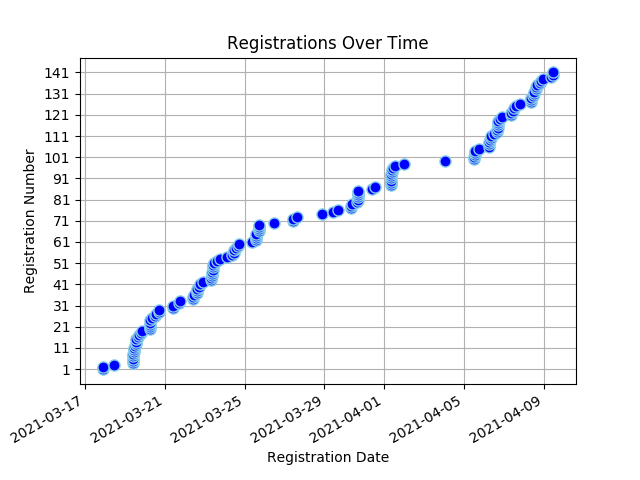
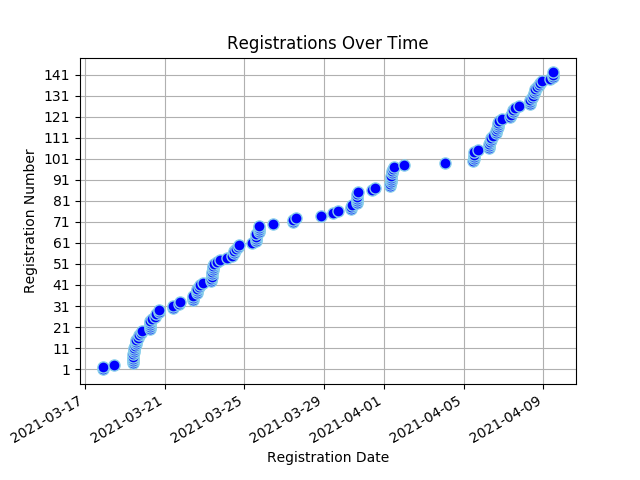
Registree stats backup on Fri 09 Apr 2021 12:12:28 SAST

diff --git a/content/registrees/_index.md b/content/registrees/_index.md
@@ -3,7 +3,7 @@ title: Registration Stats
 draft: false
 ---
 
-<ul><li><strong>Number of Registrees</strong>: 141</li>
+<ul><li><strong>Number of Registrees</strong>: 142</li>
 
 <li><strong>Number of Clubs</strong>: 53</li>
 
@@ -33,6 +33,6 @@ draft: false
         </tr>
     </thead>
     <tbody>
-<tr><td>Natalie Abrahams</td><td>Cape Town</td><td>410W</td></tr><tr><td>Linda Anderson</td><td>George</td><td>410W</td></tr><tr><td>Linda Baumgarten</td><td>Sea Point</td><td>410W</td></tr><tr><td>Ulrike Behrens</td><td>Windhoek</td><td>410W</td></tr><tr><td>Valencia Beukes-Williams</td><td>Kuilsriver</td><td>410W</td></tr><tr><td>JOSE BRAGA BORGES</td><td>Malmesbury</td><td>410W</td></tr><tr><td>Paul Brauteseth</td><td>Port Shepstone</td><td>410E</td></tr><tr><td>Nelle Buhrmann</td><td>Sea Point</td><td>410W</td></tr><tr><td>Herman Cadman</td><td>Stellenbosch</td><td>410W</td></tr><tr><td>Artemis Calomiris</td><td>Helderberg</td><td>410W</td></tr><tr><td>Linda Ann Cannone</td><td>Fish Hoek</td><td>410W</td></tr><tr><td>Sue Charles</td><td>Tokai</td><td>410W</td></tr><tr><td>Perry Chetty</td><td>East Coast</td><td>410E</td></tr><tr><td>Delaney Yeltsin Cloete</td><td>Eden</td><td>410W</td></tr><tr><td>Esme Cornelius</td><td>Kuilsriver</td><td>410W</td></tr><tr><td>Sharon Cottle</td><td>Groote Schuur</td><td>410W</td></tr><tr><td>Peter Daniel</td><td>Gordons Bay</td><td>410W</td></tr><tr><td>Norma Daniel</td><td>Gordons Bay</td><td>410W</td></tr><tr><td>Engela de Kock</td><td>Swellendam</td><td>410W</td></tr><tr><td>Francois de Kock</td><td>Swellendam</td><td>410W</td></tr><tr><td>ANDRE DE VILLIERS</td><td>Malgas</td><td>410W</td></tr><tr><td>Peggy Du Plooy</td><td>Krugersdorp</td><td>410E</td></tr><tr><td>Ivan Du Plooy</td><td>Krugersdorp</td><td>410E</td></tr><tr><td>Desiree du Toit</td><td>Ramsgate</td><td>410E</td></tr><tr><td>Natalie Etridge</td><td>Sedgefield</td><td>410W</td></tr><tr><td>AIDAN Ewers</td><td>Newlands</td><td>410W</td></tr><tr><td>Roger Fahrbach</td><td>Windhoek</td><td>410W</td></tr><tr><td>Beate Fahrbach</td><td>Windhoek</td><td>410W</td></tr><tr><td>Charles Flanagan</td><td>Tokai</td><td>410W</td></tr><tr><td>Jules Flanagan</td><td>Tokai</td><td>410W</td></tr><tr><td>Martin Froise</td><td>Letaba Tzaneen</td><td>410E</td></tr><tr><td>Valerie Graham</td><td>Nelspruit</td><td>410E</td></tr><tr><td>Mike Graham</td><td>Nelspruit</td><td>410E</td></tr><tr><td>Viv Grater</td><td>Sedgefield</td><td>410W</td></tr><tr><td>Mattheus Groves</td><td>Sedgefield</td><td>410W</td></tr><tr><td>Barbara Haywood</td><td>Eden</td><td>410W</td></tr><tr><td>Mike Heathcote</td><td>Port Shepstone</td><td>410E</td></tr><tr><td>Zarina Hendricks</td><td>Athlone</td><td>410W</td></tr><tr><td>Dorothy Hess</td><td>Kuilsriver</td><td>410W</td></tr><tr><td>Wendy Higgins</td><td>Wilro Park</td><td>410E</td></tr><tr><td>Jacqui Hocking</td><td>Midrand</td><td>410E</td></tr><tr><td>Cliff Hocking</td><td>Midrand</td><td>410E</td></tr><tr><td>Liz Houston</td><td>Table View</td><td>410W</td></tr><tr><td>John Houston</td><td>Table View</td><td>410W</td></tr><tr><td>Alna Jackson</td><td>Pretoria Jakaranda</td><td>410E</td></tr><tr><td>Dawid Jacobs</td><td>Durbanville</td><td>410W</td></tr><tr><td>Jean Jacobs</td><td>Mitchells Plain</td><td>410W</td></tr><tr><td>WOLSLEY Jacobson</td><td>Cape Town</td><td>410W</td></tr><tr><td>MALCOLM JOHNSTON</td><td>Standerton</td><td>410E</td></tr><tr><td>Grant Jonathan</td><td>Gordons Bay</td><td>410W</td></tr><tr><td>Jerome Kern</td><td>Groote Schuur</td><td>410W</td></tr><tr><td>Ian King</td><td>Alberton</td><td>410E</td></tr><tr><td>Muya Koloko</td><td>Durbanville</td><td>410W</td></tr><tr><td>Zwaai Kruger</td><td>Sedgefield</td><td>410W</td></tr><tr><td>Bevil Lakay</td><td>Mitchells Plain</td><td>410W</td></tr><tr><td>Paula Lang</td><td>Gordons Bay</td><td>410W</td></tr><tr><td>Jimmy Lang</td><td>Gordons Bay</td><td>410W</td></tr><tr><td>Heather Lee</td><td>Cape Of Good Hope</td><td>410W</td></tr><tr><td>Zarina Luck</td><td>Newcastle</td><td>410E</td></tr><tr><td>Sharon Mangwende</td><td>Cape Town</td><td>410W</td></tr><tr><td>Beaulieu Mare</td><td>Benoni Lakes</td><td>410E</td></tr><tr><td>Nick Maré</td><td>Benoni Lakes</td><td>410E</td></tr><tr><td>Jean Masson</td><td>Port Shepstone</td><td>410E</td></tr><tr><td>LANCE MAYTHAM</td><td>Swellendam</td><td>410W</td></tr><tr><td>ROSEMARIE MAYTHAM</td><td>Swellendam</td><td>410W</td></tr><tr><td>David Mccullough</td><td>Pretoria South</td><td>410E</td></tr><tr><td>Alec McKerrow</td><td>Port Alfred</td><td>410E</td></tr><tr><td>Stuart McPherson</td><td>Newlands</td><td>410E</td></tr><tr><td>Mark Meltzer</td><td>The Wilds</td><td>410E</td></tr><tr><td>Denis Meyer</td><td>Port Shepstone</td><td>410E</td></tr><tr><td>Roy Michas</td><td>Midrand</td><td>410E</td></tr><tr><td>Dawn Michas</td><td>Midrand</td><td>410E</td></tr><tr><td>BERNICE MILLS</td><td>Centurion</td><td>410E</td></tr><tr><td>Patrick Mills</td><td>Centurion</td><td>410E</td></tr><tr><td>Cherie Milosevich</td><td>Milnerton</td><td>410W</td></tr><tr><td>Alana Mitchell</td><td>Rustenburg</td><td>410E</td></tr><tr><td>Juan Mitchell</td><td>Rustenburg</td><td>410E</td></tr><tr><td>Virginia Mkhize</td><td>Cape Town</td><td>410W</td></tr><tr><td>Frauke E. Moeller</td><td>Windhoek</td><td>410W</td></tr><tr><td>Bernadine Moses</td><td>Cape Town</td><td>410W</td></tr><tr><td>Jacques Mostert</td><td>Merriman</td><td>410W</td></tr><tr><td>Pieter Myburg</td><td>Wellington</td><td>410W</td></tr><tr><td>Pieter Nel</td><td>George</td><td>410W</td></tr><tr><td>Tillie Nel</td><td>Eden</td><td>410W</td></tr><tr><td>Mike Newlands</td><td>Port Alfred</td><td>410E</td></tr><tr><td>Mike Newlands</td><td>Port Alfred</td><td>410E</td></tr><tr><td>Chris Ocker</td><td>Fish Hoek</td><td>410W</td></tr><tr><td>Jenny Ocker</td><td>Fish Hoek</td><td>410W</td></tr><tr><td>Debra Olivier</td><td>Sedgefield</td><td>410W</td></tr><tr><td>Sundru Pillay</td><td>Durbanville</td><td>410W</td></tr><tr><td>BRIAN PORTEOUS</td><td>Hibberdene</td><td>410E</td></tr><tr><td>Mary-Anne Ras</td><td>Swellendam</td><td>410W</td></tr><tr><td>Hugo Reniers</td><td>Nelspruit</td><td>410E</td></tr><tr><td>Mark Rossouw</td><td>Tokai</td><td>410W</td></tr><tr><td>Irene Rugheimer</td><td>Bedfordview</td><td>410E</td></tr><tr><td>Ingrid Russell</td><td>Fish Hoek</td><td>410W</td></tr><tr><td>Sharon Sampie</td><td>Bergvliet</td><td>410W</td></tr><tr><td>Frank Schatz</td><td>Windhoek</td><td>410W</td></tr><tr><td>Vera Schatz</td><td>Windhoek</td><td>410W</td></tr><tr><td>Vera Schatz</td><td>Windhoek</td><td>410W</td></tr><tr><td>Francis Searle</td><td>Kouga</td><td>410E</td></tr><tr><td>Gloria Searle</td><td>Kouga</td><td>410E</td></tr><tr><td>Ami Sell</td><td>Windhoek</td><td>410W</td></tr><tr><td>Beryl Simpson</td><td>Cape Town</td><td>410W</td></tr><tr><td>Kenlis Sircoulomb</td><td>Windhoek</td><td>410W</td></tr><tr><td>Holger Sircoulomb</td><td>Windhoek</td><td>410W</td></tr><tr><td>Hennie Smeer</td><td>Windhoek</td><td>410W</td></tr><tr><td>Sue Smit</td><td>Centurion</td><td>410E</td></tr><tr><td>Herman Smit</td><td>Swellendam</td><td>410W</td></tr><tr><td>Jeff Smith</td><td>Port Shepstone</td><td>410E</td></tr><tr><td>LYN SNYMAN</td><td>Deep South</td><td>410W</td></tr><tr><td>Diana Sochen</td><td>Sea Point</td><td>410W</td></tr><tr><td>Max Stander</td><td>Port Alfred</td><td>410E</td></tr><tr><td>Ashley Stander</td><td>Krugersdorp</td><td>410E</td></tr><tr><td>Brett Jason Stander</td><td>Krugersdorp</td><td>410E</td></tr><tr><td>RORY stier</td><td>Deep South</td><td>410W</td></tr><tr><td>Patrick Strauss</td><td>Kuilsriver</td><td>410W</td></tr><tr><td>Lauryn Talbot</td><td>Benoni Lakes</td><td>410E</td></tr><tr><td>Diane Townsend</td><td>Benoni Lakes</td><td>410E</td></tr><tr><td>Diane Townsend</td><td>Benoni Lakes</td><td>410E</td></tr><tr><td>Alistair Tuckett</td><td>Roodepoort Clearwater Cyber</td><td>410E</td></tr><tr><td>Carl van Blerk</td><td>Eden</td><td>410W</td></tr><tr><td>HILARY LISE VAN BREDA</td><td>Cape Town</td><td>410W</td></tr><tr><td>Marina Van de Merwe</td><td>Malmesbury</td><td>410W</td></tr><tr><td>Sydney van Heerden</td><td>Wilro Park</td><td>410E</td></tr><tr><td>Sandy van Heerden</td><td>Wilro Park</td><td>410E</td></tr><tr><td>Neville Van Rensburg</td><td>Moorreesburg</td><td>410W</td></tr><tr><td>Johan van Rensburg</td><td>Windhoek</td><td>410W</td></tr><tr><td>Anne van Rensburg</td><td>Windhoek</td><td>410W</td></tr><tr><td>Jeannie van Wulven</td><td>Tygerberg Hills</td><td>410W</td></tr><tr><td>Alan van Wulven</td><td>Tygerberg Hills</td><td>410W</td></tr><tr><td>Deon van Wulven</td><td>Tygerberg Hills</td><td>410W</td></tr><tr><td>Kim van Wyk</td><td>North Durban</td><td>410E</td></tr><tr><td>Edith Van Wyk-Nelson</td><td>Kuilsriver</td><td>410W</td></tr><tr><td>Brian von der Decken</td><td>King William's Town</td><td>410E</td></tr><tr><td>Rinette Von Mollendorf</td><td>Durbanville</td><td>410W</td></tr><tr><td>Rochelle Vorster</td><td>Sedgefield</td><td>410W</td></tr><tr><td>Alastair Warman</td><td>Port Shepstone</td><td>410E</td></tr><tr><td>Allan Watson</td><td>Sea Point</td><td>410W</td></tr><tr><td>Neville Williamson</td><td>Port Alfred</td><td>410E</td></tr><tr><td>Judy Young</td><td>Durbanville</td><td>410W</td></tr>
+<tr><td>Natalie Abrahams</td><td>Cape Town</td><td>410W</td></tr><tr><td>Linda Anderson</td><td>George</td><td>410W</td></tr><tr><td>Linda Baumgarten</td><td>Sea Point</td><td>410W</td></tr><tr><td>Ulrike Behrens</td><td>Windhoek</td><td>410W</td></tr><tr><td>Valencia Beukes-Williams</td><td>Kuilsriver</td><td>410W</td></tr><tr><td>JOSE BRAGA BORGES</td><td>Malmesbury</td><td>410W</td></tr><tr><td>Paul Brauteseth</td><td>Port Shepstone</td><td>410E</td></tr><tr><td>Nelle Buhrmann</td><td>Sea Point</td><td>410W</td></tr><tr><td>Herman Cadman</td><td>Stellenbosch</td><td>410W</td></tr><tr><td>Artemis Calomiris</td><td>Helderberg</td><td>410W</td></tr><tr><td>Linda Ann Cannone</td><td>Fish Hoek</td><td>410W</td></tr><tr><td>Sue Charles</td><td>Tokai</td><td>410W</td></tr><tr><td>Perry Chetty</td><td>East Coast</td><td>410E</td></tr><tr><td>Delaney Yeltsin Cloete</td><td>Eden</td><td>410W</td></tr><tr><td>Esme Cornelius</td><td>Kuilsriver</td><td>410W</td></tr><tr><td>Sharon Cottle</td><td>Groote Schuur</td><td>410W</td></tr><tr><td>Peter Daniel</td><td>Gordons Bay</td><td>410W</td></tr><tr><td>Norma Daniel</td><td>Gordons Bay</td><td>410W</td></tr><tr><td>Engela de Kock</td><td>Swellendam</td><td>410W</td></tr><tr><td>Francois de Kock</td><td>Swellendam</td><td>410W</td></tr><tr><td>ANDRE DE VILLIERS</td><td>Malgas</td><td>410W</td></tr><tr><td>Peggy Du Plooy</td><td>Krugersdorp</td><td>410E</td></tr><tr><td>Ivan Du Plooy</td><td>Krugersdorp</td><td>410E</td></tr><tr><td>Desiree du Toit</td><td>Ramsgate</td><td>410E</td></tr><tr><td>Natalie Etridge</td><td>Sedgefield</td><td>410W</td></tr><tr><td>AIDAN Ewers</td><td>Newlands</td><td>410W</td></tr><tr><td>Roger Fahrbach</td><td>Windhoek</td><td>410W</td></tr><tr><td>Beate Fahrbach</td><td>Windhoek</td><td>410W</td></tr><tr><td>Charles Flanagan</td><td>Tokai</td><td>410W</td></tr><tr><td>Jules Flanagan</td><td>Tokai</td><td>410W</td></tr><tr><td>Martin Froise</td><td>Letaba Tzaneen</td><td>410E</td></tr><tr><td>Valerie Graham</td><td>Nelspruit</td><td>410E</td></tr><tr><td>Mike Graham</td><td>Nelspruit</td><td>410E</td></tr><tr><td>Viv Grater</td><td>Sedgefield</td><td>410W</td></tr><tr><td>Mattheus Groves</td><td>Sedgefield</td><td>410W</td></tr><tr><td>Barbara Haywood</td><td>Eden</td><td>410W</td></tr><tr><td>Mike Heathcote</td><td>Port Shepstone</td><td>410E</td></tr><tr><td>Zarina Hendricks</td><td>Athlone</td><td>410W</td></tr><tr><td>Dorothy Hess</td><td>Kuilsriver</td><td>410W</td></tr><tr><td>Wendy Higgins</td><td>Wilro Park</td><td>410E</td></tr><tr><td>Jacqui Hocking</td><td>Midrand</td><td>410E</td></tr><tr><td>Cliff Hocking</td><td>Midrand</td><td>410E</td></tr><tr><td>Liz Houston</td><td>Table View</td><td>410W</td></tr><tr><td>John Houston</td><td>Table View</td><td>410W</td></tr><tr><td>Alna Jackson</td><td>Pretoria Jakaranda</td><td>410E</td></tr><tr><td>Dawid Jacobs</td><td>Durbanville</td><td>410W</td></tr><tr><td>Jean Jacobs</td><td>Mitchells Plain</td><td>410W</td></tr><tr><td>WOLSLEY Jacobson</td><td>Cape Town</td><td>410W</td></tr><tr><td>MALCOLM JOHNSTON</td><td>Standerton</td><td>410E</td></tr><tr><td>Grant Jonathan</td><td>Gordons Bay</td><td>410W</td></tr><tr><td>Jerome Kern</td><td>Groote Schuur</td><td>410W</td></tr><tr><td>Ian King</td><td>Alberton</td><td>410E</td></tr><tr><td>Muya Koloko</td><td>Durbanville</td><td>410W</td></tr><tr><td>Zwaai Kruger</td><td>Sedgefield</td><td>410W</td></tr><tr><td>Bevil Lakay</td><td>Mitchells Plain</td><td>410W</td></tr><tr><td>Paula Lang</td><td>Gordons Bay</td><td>410W</td></tr><tr><td>Jimmy Lang</td><td>Gordons Bay</td><td>410W</td></tr><tr><td>Heather Lee</td><td>Cape Of Good Hope</td><td>410W</td></tr><tr><td>Zarina Luck</td><td>Newcastle</td><td>410E</td></tr><tr><td>Sharon Mangwende</td><td>Cape Town</td><td>410W</td></tr><tr><td>Beaulieu Mare</td><td>Benoni Lakes</td><td>410E</td></tr><tr><td>Nick Maré</td><td>Benoni Lakes</td><td>410E</td></tr><tr><td>Jean Masson</td><td>Port Shepstone</td><td>410E</td></tr><tr><td>LANCE MAYTHAM</td><td>Swellendam</td><td>410W</td></tr><tr><td>ROSEMARIE MAYTHAM</td><td>Swellendam</td><td>410W</td></tr><tr><td>David Mccullough</td><td>Pretoria South</td><td>410E</td></tr><tr><td>Alec McKerrow</td><td>Port Alfred</td><td>410E</td></tr><tr><td>Stuart McPherson</td><td>Newlands</td><td>410E</td></tr><tr><td>Mark Meltzer</td><td>The Wilds</td><td>410E</td></tr><tr><td>Denis Meyer</td><td>Port Shepstone</td><td>410E</td></tr><tr><td>Roy Michas</td><td>Midrand</td><td>410E</td></tr><tr><td>Dawn Michas</td><td>Midrand</td><td>410E</td></tr><tr><td>BERNICE MILLS</td><td>Centurion</td><td>410E</td></tr><tr><td>Patrick Mills</td><td>Centurion</td><td>410E</td></tr><tr><td>Cherie Milosevich</td><td>Milnerton</td><td>410W</td></tr><tr><td>Alana Mitchell</td><td>Rustenburg</td><td>410E</td></tr><tr><td>Juan Mitchell</td><td>Rustenburg</td><td>410E</td></tr><tr><td>Virginia Mkhize</td><td>Cape Town</td><td>410W</td></tr><tr><td>Frauke E. Moeller</td><td>Windhoek</td><td>410W</td></tr><tr><td>Bernadine Moses</td><td>Cape Town</td><td>410W</td></tr><tr><td>Jacques Mostert</td><td>Merriman</td><td>410W</td></tr><tr><td>Pieter Myburg</td><td>Wellington</td><td>410W</td></tr><tr><td>Pieter Nel</td><td>George</td><td>410W</td></tr><tr><td>Tillie Nel</td><td>Eden</td><td>410W</td></tr><tr><td>Mike Newlands</td><td>Port Alfred</td><td>410E</td></tr><tr><td>Mike Newlands</td><td>Port Alfred</td><td>410E</td></tr><tr><td>Chris Ocker</td><td>Fish Hoek</td><td>410W</td></tr><tr><td>Jenny Ocker</td><td>Fish Hoek</td><td>410W</td></tr><tr><td>Debra Olivier</td><td>Sedgefield</td><td>410W</td></tr><tr><td>Sundru Pillay</td><td>Durbanville</td><td>410W</td></tr><tr><td>BRIAN PORTEOUS</td><td>Hibberdene</td><td>410E</td></tr><tr><td>Mary-Anne Ras</td><td>Swellendam</td><td>410W</td></tr><tr><td>Hugo Reniers</td><td>Nelspruit</td><td>410E</td></tr><tr><td>Mark Rossouw</td><td>Tokai</td><td>410W</td></tr><tr><td>Irene Rugheimer</td><td>Bedfordview</td><td>410E</td></tr><tr><td>Ingrid Russell</td><td>Fish Hoek</td><td>410W</td></tr><tr><td>Sharon Sampie</td><td>Bergvliet</td><td>410W</td></tr><tr><td>Frank Schatz</td><td>Windhoek</td><td>410W</td></tr><tr><td>Vera Schatz</td><td>Windhoek</td><td>410W</td></tr><tr><td>Vera Schatz</td><td>Windhoek</td><td>410W</td></tr><tr><td>Francis Searle</td><td>Kouga</td><td>410E</td></tr><tr><td>Gloria Searle</td><td>Kouga</td><td>410E</td></tr><tr><td>Ami Sell</td><td>Windhoek</td><td>410W</td></tr><tr><td>Beryl Simpson</td><td>Cape Town</td><td>410W</td></tr><tr><td>Kenlis Sircoulomb</td><td>Windhoek</td><td>410W</td></tr><tr><td>Holger Sircoulomb</td><td>Windhoek</td><td>410W</td></tr><tr><td>Hennie Smeer</td><td>Windhoek</td><td>410W</td></tr><tr><td>Sue Smit</td><td>Centurion</td><td>410E</td></tr><tr><td>Herman Smit</td><td>Swellendam</td><td>410W</td></tr><tr><td>Jeff Smith</td><td>Port Shepstone</td><td>410E</td></tr><tr><td>LYN SNYMAN</td><td>Deep South</td><td>410W</td></tr><tr><td>Diana Sochen</td><td>Sea Point</td><td>410W</td></tr><tr><td>Max Stander</td><td>Port Alfred</td><td>410E</td></tr><tr><td>Ashley Stander</td><td>Krugersdorp</td><td>410E</td></tr><tr><td>Brett Jason Stander</td><td>Krugersdorp</td><td>410E</td></tr><tr><td>RORY stier</td><td>Deep South</td><td>410W</td></tr><tr><td>Patrick Strauss</td><td>Kuilsriver</td><td>410W</td></tr><tr><td>Lauryn Talbot</td><td>Benoni Lakes</td><td>410E</td></tr><tr><td>Diane Townsend</td><td>Benoni Lakes</td><td>410E</td></tr><tr><td>Diane Townsend</td><td>Benoni Lakes</td><td>410E</td></tr><tr><td>Alistair Tuckett</td><td>Roodepoort Clearwater Cyber</td><td>410E</td></tr><tr><td>Carl van Blerk</td><td>Eden</td><td>410W</td></tr><tr><td>HILARY LISE VAN BREDA</td><td>Cape Town</td><td>410W</td></tr><tr><td>Marina Van de Merwe</td><td>Malmesbury</td><td>410W</td></tr><tr><td>Sydney van Heerden</td><td>Wilro Park</td><td>410E</td></tr><tr><td>Sandy van Heerden</td><td>Wilro Park</td><td>410E</td></tr><tr><td>Neville Van Rensburg</td><td>Moorreesburg</td><td>410W</td></tr><tr><td>Johan van Rensburg</td><td>Windhoek</td><td>410W</td></tr><tr><td>Anne van Rensburg</td><td>Windhoek</td><td>410W</td></tr><tr><td>Jeannie van Wulven</td><td>Tygerberg Hills</td><td>410W</td></tr><tr><td>Alan van Wulven</td><td>Tygerberg Hills</td><td>410W</td></tr><tr><td>Deon van Wulven</td><td>Tygerberg Hills</td><td>410W</td></tr><tr><td>Kim van Wyk</td><td>North Durban</td><td>410E</td></tr><tr><td>Lindie van Wyk</td><td>Pretoria Jakaranda</td><td>410E</td></tr><tr><td>Edith Van Wyk-Nelson</td><td>Kuilsriver</td><td>410W</td></tr><tr><td>Brian von der Decken</td><td>King William's Town</td><td>410E</td></tr><tr><td>Rinette Von Mollendorf</td><td>Durbanville</td><td>410W</td></tr><tr><td>Rochelle Vorster</td><td>Sedgefield</td><td>410W</td></tr><tr><td>Alastair Warman</td><td>Port Shepstone</td><td>410E</td></tr><tr><td>Allan Watson</td><td>Sea Point</td><td>410W</td></tr><tr><td>Neville Williamson</td><td>Port Alfred</td><td>410E</td></tr><tr><td>Judy Young</td><td>Durbanville</td><td>410W</td></tr>
 </tbody>
 </table>

diff --git a/content/full_stats/_index.md b/content/full_stats/_index.md
@@ -16,7 +16,7 @@ draft: false
 </head>
 <body>
 <h1 style="color: #000000;">Full Registration Stats</h1>
-<ul><li><strong>Number of Registrees</strong>: 141</li>
+<ul><li><strong>Number of Registrees</strong>: 142</li>
 <li><strong>Number of Clubs</strong>: 53</li>
 <li><strong>Club With Most Attendees</strong>: Windhoek (13 registrees)</li>
 
@@ -1520,6 +1520,17 @@ draft: false
 <td>No</td>
 <td style="background-color: lightgreen">Yes</td>
 <td style="background-color: lightgreen">Yes</td>
+<td>No</td>
+</tr>
+
+    
+<td>151</td>
+<td>Lindie van Wyk</td>
+<td>Pretoria Jakaranda</td>
+<td>410E</td>
+<td>No</td>
+<td>No</td>
+<td>No</td>
 <td>No</td>
 </tr>
 
